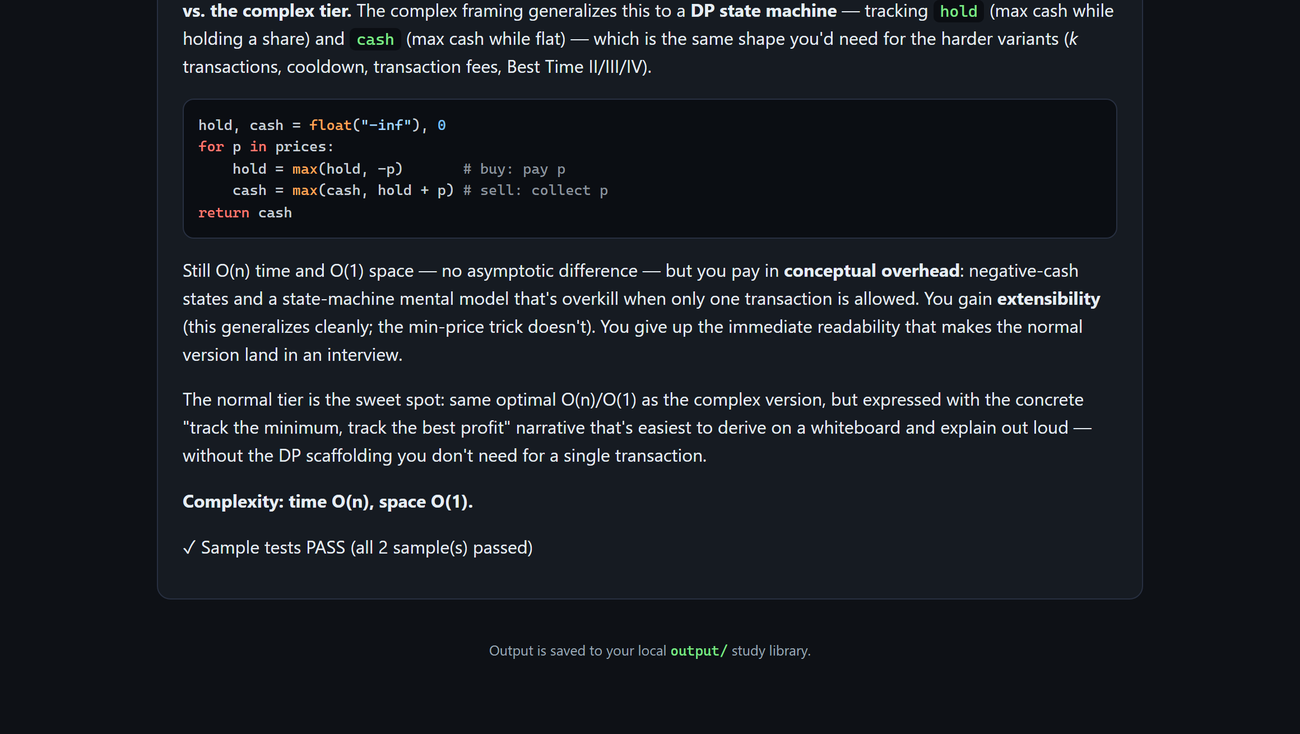
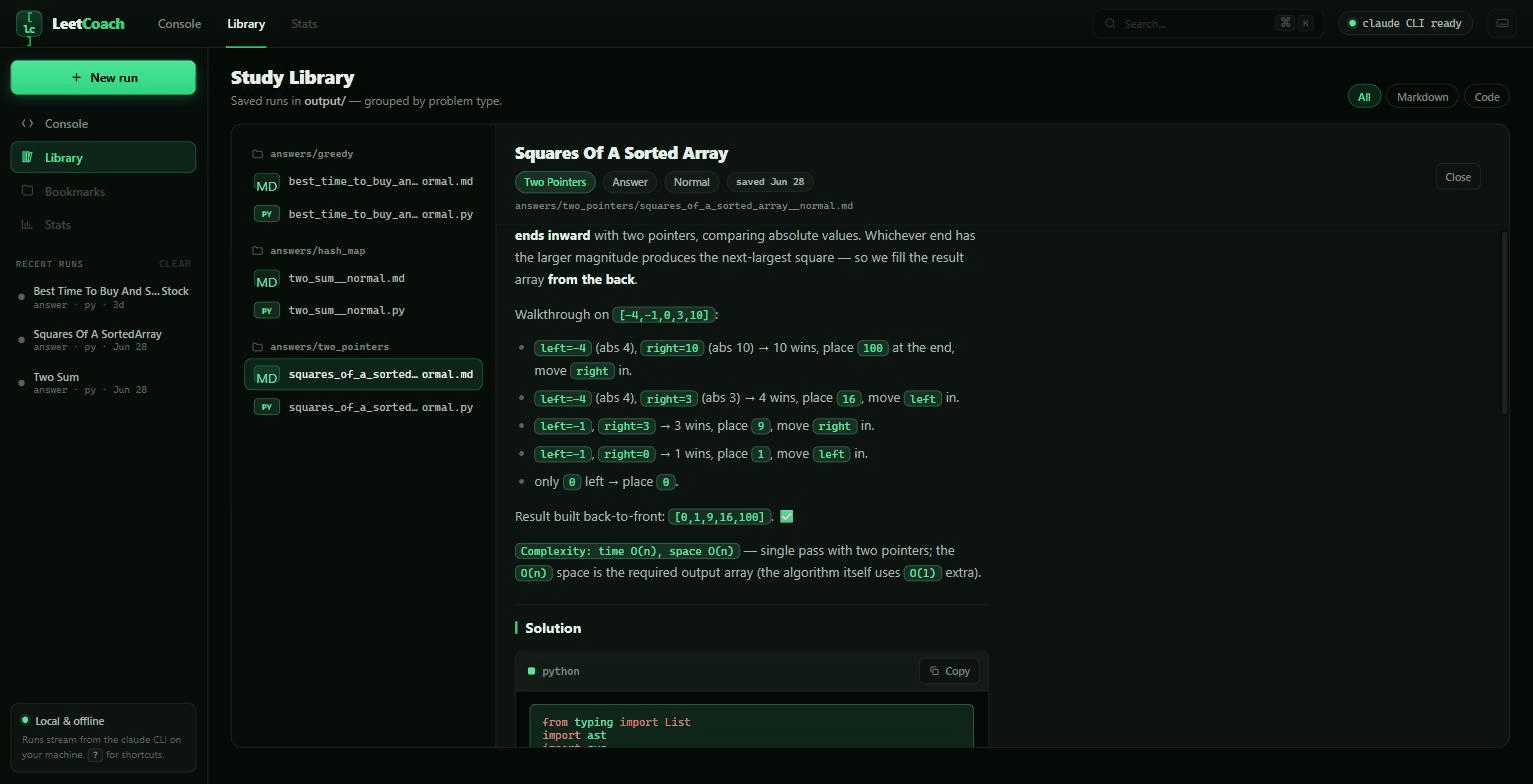
Media: regenerate README screenshot + demo GIF for the application-shell UI

diff --git a/README.md b/README.md
@@ -10,7 +10,7 @@ generated Python against the problem's own sample I/O to tell you whether the so
 actually passes. No API key: it drives your existing Claude Code subscription through the
 CLI.
 
-![LeetCoach streaming an Answer, verifying it against the problem's sample I/O, and browsing the saved study library](docs/media/demo.gif)
+![LeetCoach in the Console streaming an Answer token by token, then the Library showing a saved solution with its walkthrough, Big-O line, and syntax-highlighted code](docs/media/demo.gif)
 
 ## What it does
 
@@ -28,7 +28,7 @@ CLI.
   your recent runs.
 
 <p align="center">
-  <img src="docs/media/screenshot.png" alt="A finished Answer run: syntax-highlighted solution code, an explicit Big-O complexity line, and a passing sample-I/O check" width="640">
+  <img src="docs/media/screenshot.png" alt="The Library viewer showing a saved Answer for Squares of a Sorted Array: its two-pointer walkthrough, an explicit Big-O complexity line, and the syntax-highlighted Python solution" width="760">
 </p>
 
 ## How it works (the `claude` CLI dependency)